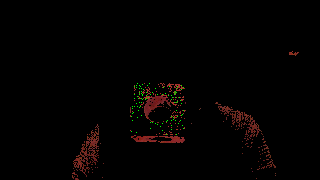
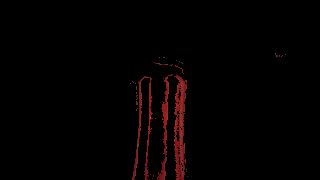
Dabbling with vision code

diff --git a/vision/vision.py b/vision/vision.py
@@ -8,29 +8,20 @@ camera_port = 0
  
 #Number of frames to throw away while the camera adjusts to light levels
 ramp_frames = 30
- 
-# Now we can initialize the camera capture object with the cv2.VideoCapture class.
-# All it needs is the index to a camera port.
 camera = cv2.VideoCapture(camera_port)
- 
 
-def floodfill(matrix, x, y):
-    #"hidden" stop clause - not reinvoking for "c" or "b", only for "a".
-    if matrix[x][y] == "a":  
-        matrix[x][y] = "c" 
-        #recursively invoke flood fill on all surrounding cells:
-        if x > 0:
-            floodfill(matrix,x-1,y)
-        if x < len(matrix[y]) - 1:
-            floodfill(matrix,x+1,y)
-        if y > 0:
-            floodfill(matrix,x,y-1)
-        if y < len(matrix) - 1:
-            floodfill(matrix,x,y+1)
+'''
+Params:
+src - the source image
+x - x-coordinate of the pixel of color object
+y - y-coordinate of the pixel of color object
 
-def calculate_average(src, x, y, sum_x, sum_y, total):
+Returns:
+the average of all the pixels the color object is composed of
+'''
+def calculate_average(src, x, y):
 
-	sum_total = summation(src, x, y, sum_x, sum_y, total)
+	sum_total = summation(src, x, y, 0, 0, 0)
 
 	final_x = float(sum_total[0])/sum_total[2]
 	final_y = float(sum_total[1])/sum_total[2]
@@ -38,6 +29,20 @@ def calculate_average(src, x, y, sum_x, sum_y, total):
 	return final_x, final_y
 
 
+'''
+Params:
+src - the source image
+x - x-coordinate of the pixel of color object
+y - y-coordinate of the pixel of color object
+sum_x - running sum of the x-coordinates of the color object
+sum_y - running sum of the y-coordinates of the color object
+total - running sum of the number of pixels of the color object
+
+Returns:
+sum_x - running sum of the x-coordinates of the color object
+sum_y - running sum of the y-coordinates of the color object
+total - running sum of the number of pixels of the color object
+'''
 def summation(src, x, y, sum_x, sum_y, total):
 
 	if src[y][x][2] > 168:
@@ -59,9 +64,10 @@ def summation(src, x, y, sum_x, sum_y, total):
 	
 	return sum_x, sum_y, total
 
-# Captures a single image from the camera and returns it in PIL format
+'''
+Returns the image read from the camera
+'''
 def get_image():
-	# read is the easiest way to get a full image out of a VideoCapture object.
 	retval, im = camera.read()
 	return im
  
@@ -70,55 +76,62 @@ def get_image():
 for i in xrange(ramp_frames):
 	temp = get_image()
 
-print("Taking image...")
 
-while(1):
+print "Taking pictures..."
 
-	# Take the actual image we want to keep
-	camera_capture = get_image()
-	# file = "test_image.png"
-	# # A nice feature of the imwrite method is that it will automatically choose the
-	# # correct format based on the file extension you provide. Convenient!
-	# cv2.imwrite(file, camera_capture)
+# while(1):
 
-	img = scipy.misc.imresize(camera_capture, 0.25)
-	img_w = img.shape[1]
-	img_h = img.shape[0]
+# Take the actual image we want to keep
+camera_capture = get_image()
 
-	# define range of red color in HSV
-	lower_red = np.array([17, 15, 100], dtype=np.uint8)
-	upper_red = np.array([50, 56, 200], dtype=np.uint8)
+# Scale down the image by 1/4
+img = scipy.misc.imresize(camera_capture, 0.25)
 
-	lower_green = np.array([6, 86, 29], dtype=np.uint8)
-	upper_green = np.array([255, 255, 80], dtype=np.uint8)
+# Image width and height
+img_w = img.shape[1]
+img_h = img.shape[0]
 
-	# Threshold the BGR image to get only red and green colors
-	mask_red = cv2.inRange(img, lower_red, upper_red)
-	mask_green = cv2.inRange(img, lower_green, upper_green)
+cv2.imwrite("orig_img.png", img)
 
-	# Bitwise-AND mask and original image
-	res_red = cv2.bitwise_and(img, img, mask= mask_red)
-	res_green = cv2.bitwise_and(img, img, mask= mask_green)
+# TODO: Better detection of the range of values for red and green
+# Define range of red color in HSV
+lower_red = np.array([17, 15, 100], dtype=np.uint8)
+upper_red = np.array([50, 56, 200], dtype=np.uint8)
 
-	print "Writing red image..."
-	cv2.imwrite("red_image.png", res_red)
+lower_green = np.array([6, 86, 29], dtype=np.uint8)
+upper_green = np.array([255, 255, 80], dtype=np.uint8)
 
-	res_red2 = cv2.imread("red_image.png")
+# Threshold the BGR image to get only red and green colors
+mask_red = cv2.inRange(img, lower_red, upper_red)
+mask_green = cv2.inRange(img, lower_green, upper_green)
 
-	for x in xrange(img_w):
-		for y in xrange(img_h):
+# Bitwise-AND mask and original image
+res_red = cv2.bitwise_and(img, img, mask= mask_red)
+res_green = cv2.bitwise_and(img, img, mask= mask_green)
 
-			if res_red2[y][x][2] > 168: # red pixel ==> object exists!
-				print "coordinates that are red", x, y
-				# Run 'Flood Fill' to find the average of the blob it incapsulates.
-				avg_x, avg_y = calculate_average(res_red2, x, y, 0, 0, 0)
-				res_red2[avg_y][avg_x] = np.array([0, 255, 0], dtype=np.uint8)
-				print "Average", avg_x, avg_y
+print "Writing red image..."
+cv2.imwrite("mask_red2.png", mask_red)
+print mask_red, mask_red.shape, mask_red[89][159]
+cv2.imwrite("red_image2.png", res_red)
 
-	print "Writing red image with averages..."
-	cv2.imwrite("red_image_with_green_averages.png", res_red2)
+res_red2 = cv2.imread("red_image2.png")
 
-	time.sleep(5)
+# Loop through each pixel of the red result and check if there is a red pixel
+for x in xrange(img_w):
+	for y in xrange(img_h):
+
+		if res_red2[y][x][2] > 168: # TODO: improve better detection of red.
+			print "coordinates that are red", x, y
+
+			# Run 'Flood Fill' to find the average of the blob it incapsulates.
+			avg_x, avg_y = calculate_average(res_red2, x, y)
+			res_red2[avg_y][avg_x] = np.array([0, 255, 0], dtype=np.uint8)
+			print "Average", avg_x, avg_y
+
+print "Writing red image with averages..."
+cv2.imwrite("red_image_with_green_averages2.png", res_red2)
+
+# time.sleep(5)
  
 # You'll want to release the camera, otherwise you won't be able to create a new
 # capture object until your script exits

diff --git a/vision/vision2.py b/vision/vision2.py
@@ -1,87 +1,67 @@
-import cv2
+import cv2, cv
 import numpy as np
 import scipy.misc
 import time 
 import math
 
-def floodfill(matrix, x, y):
-    #"hidden" stop clause - not reinvoking for "c" or "b", only for "a".
-    if matrix[x][y] == "a":  
-        matrix[x][y] = "c" 
-        #recursively invoke flood fill on all surrounding cells:
-        if x > 0:
-            floodfill(matrix,x-1,y)
-        if x < len(matrix[y]) - 1:
-            floodfill(matrix,x+1,y)
-        if y > 0:
-            floodfill(matrix,x,y-1)
-        if y < len(matrix) - 1:
-            floodfill(matrix,x,y+1)
+# img = cv2.imread("red_image_with_green_averages.png")
+# img_w = img.shape[1]
+# img_h = img.shape[0]
 
-def calculate_average(src, x, y, sum_x, sum_y, total):
+# middle_w = img_w/2.0
+# k = .01 # each pixel is about .01 inches
 
-	sum_total = summation(src, x, y, sum_x, sum_y, total)
+# for x in xrange(img_w):
+# 	for y in xrange(img_h):
+# 		# Green pixel found
+# 		if (img[y][x][0] == 0 and img[y][x][1] == 255 and img[y][x][2] == 0):
+# 			print "x coordinate", x, "y coordinate", y
+# 			print "middle width", middle_w
+# 			# Get x coordinate of the pixel
+# 			# Compare it to middle_w
+# 			difference = middle_w - x
+# 			print "difference", difference
+# 			actual_x = abs(difference)
+# 			actual_y = img_h - y
 
-	final_x = float(sum_total[0])/sum_total[2]
-	final_y = float(sum_total[1])/sum_total[2]
+# 			distance = math.hypot(actual_x, actual_y)*k
 
-	return final_x, final_y
+# 			if difference > 0:
+# 				# LEFTSIDE
+# 				angle = - math.atan(float(actual_x)/actual_y) * 180.0 / math.pi
+# 			else:
+# 				# RIGHTSIDE
+# 				angle = math.atan(float(actual_x)/actual_y) * 180.0 / math.pi
 
+# 			print "angle", angle, "degrees", "distance", distance, "inches"
 
-def summation(src, x, y, sum_x, sum_y, total):
-
-	if src[y][x][2] > 168:
-		sum_x += x
-		sum_y += y
-		total += 1
-		print x, y, total
-		src[y][x] = np.array([0, 0, 0], dtype=np.uint8)
-
-		if x > 0: # search left
-			sum_x, sum_y, total = summation(src, x-1, y, sum_x, sum_y, total)
-		if x < src.shape[1] - 1: # search right
-			sum_x, sum_y, total = summation(src, x+1, y, sum_x, sum_y, total)
-		if y > 0:
-			sum_x, sum_y, total = summation(src, x, y-1, sum_x, sum_y, total)
-		if y < src.shape[0] - 1:
-			sum_x, sum_y, total = summation(src, x, y+1, sum_x, sum_y, total)
-
-	
-	return sum_x, sum_y, total
-
-# Captures a single image from the camera and returns it in PIL format
-def get_image():
-	# read is the easiest way to get a full image out of a VideoCapture object.
-	retval, im = camera.read()
-	return im
-
-img = cv2.imread("red_image_with_green_averages.png")
+img = cv2.imread("orig_img.png")
 img_w = img.shape[1]
 img_h = img.shape[0]
 
-middle_w = img_w/2.0
-k = .01 # each pixel is about .01 inches
+print "img", img, img.shape
+mask = cv.CreateMat(img_h, img_w, cv.CV_8UC1)
+
+print mask
+
+# mask = np.zeros((img_h, img_w))
 
 for x in xrange(img_w):
 	for y in xrange(img_h):
-		# Green pixel found
-		if (img[y][x][0] == 0 and img[y][x][1] == 255 and img[y][x][2] == 0):
-			print "x coordinate", x, "y coordinate", y
-			print "middle width", middle_w
-			# Get x coordinate of the pixel
-			# Compare it to middle_w
-			difference = middle_w - x
-			print "difference", difference
-			actual_x = abs(difference)
-			actual_y = img_h - y
+		r = img[y][x][2]
+		g = img[y][x][1]
+		b = img[y][x][0]
+		if (r > 1.3 * g and r > 1.3 * b):
+			mask[y][x] = 255
+		else:
+			mask[y][x] = 0
 
-			distance = math.hypot(actual_x, actual_y)*k
+# tmp = cv.fromarray(mask)
 
-			if difference > 0:
-				# LEFTSIDE
-				angle = - math.atan(float(actual_x)/actual_y) * 180.0 / math.pi
-			else:
-				# RIGHTSIDE
-				angle = math.atan(float(actual_x)/actual_y) * 180.0 / math.pi
+print "mask", mask, mask.shape
+cv2.imwrite("mask_produced.png", mask)
 
-			print "angle", angle, "degrees", "distance", distance, "inches"
+res_red = cv2.bitwise_and(img, img, mask= mask)
+
+cv2.imwrite("res_red_produced.png", res_red)
+
